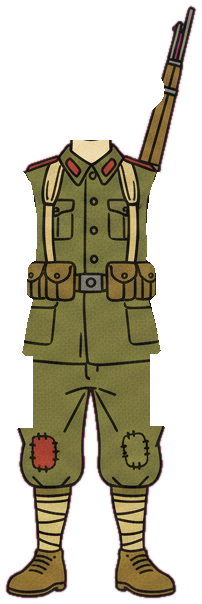
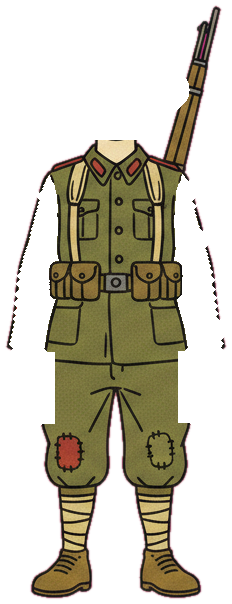
Day 02: sample assets (poses, rigs, sets, props), engine and s01-s08 scenes
Rejected generations are kept as x_ objects on their sheets or replaced by rewritten prompts:
an aimed-looking rifle pose, a mixed press/search lineup, an American-style uniform, a malformed bolt.

Claude-Session: https://claude.ai/code/session_01FrcE5zDMM6xwjKtkwWgTN9

diff --git a/day02/build/scenes.py b/day02/build/scenes.py
@@ -12,6 +12,11 @@ from engine import *  # noqa: F401,F403
 
 BUILD = json.load(open(os.path.join(DAY, "build.json")))
 CJK = "/usr/share/fonts/truetype/wqy/wqy-zenhei.ttc"
+PREVIEW = os.environ.get("PREVIEW") == "1"  # stills only; render.py refuses a video in preview mode
+
+
+def smooth_np(x):
+    return x * x * x * (x * (6 * x - 15) + 10)
 
 
 class Assets:
@@ -23,19 +28,34 @@ class Assets:
             self.cache[key] = fn()
         return self.cache[key]
 
-    def plate(self, sid):
-        return self._get(("set", sid), lambda: to_skia(load_rgba(os.path.join(DAY, "images", "raw", f"set_{sid}.png"),
-                                                                    (W + 48, H + 28))))
+    def plate(self, sid, feather=0):
+        def mk():
+            import numpy as np
+            a = load_rgba(os.path.join(DAY, "images", "raw", f"set_{sid}.png"), (W + 48, H + 28)).copy()
+            if feather:  # a place nested in another plate melts into it at the edges
+                h, w = a.shape[:2]
+                yy, xx = np.mgrid[0:h, 0:w]
+                d = np.minimum.reduce([xx, w - 1 - xx, yy, h - 1 - yy]).astype(float)
+                a[..., 3] = (smooth_np(np.clip(d / feather, 0, 1)) * 255).astype(np.uint8)
+            return to_skia(a)
+        return self._get(("set", sid, feather), mk)
 
     def prop(self, pid):
         if pid not in BUILD["props"]:
             raise SystemExit(f"STOP: prop {pid} is not declared in build.json")  # spec 9
-        return self._get(("prop", pid), lambda: to_skia(load_rgba(os.path.join(DAY, "images", "props", f"{pid}.png"))))
+        path = os.path.join(DAY, "images", "props", f"{pid}.png")
+        if PREVIEW and not os.path.exists(path):  # stills only: a grey stand-in so layouts can be checked
+            import numpy as np
+            return self._get(("prop", pid), lambda: to_skia(np.full((200, 300, 4), 120, np.uint8)))
+        return self._get(("prop", pid), lambda: to_skia(load_rgba(path)))
 
     def rig(self, cid, pose):
         if pose not in BUILD["cast"][cid]["poses"]:
             raise SystemExit(f"STOP: pose {cid}/{pose} is not declared in build.json")  # spec 9
-        return self._get(("rig", cid, pose), lambda: Rig(os.path.join(DAY, "images", "cast", f"{cid}_{pose}")))
+        folder = os.path.join(DAY, "images", "cast", f"{cid}_{pose}")
+        if PREVIEW and not os.path.exists(folder):
+            folder = os.path.join(DAY, "images", "cast", "onoda_attention")
+        return self._get(("rig", cid, pose), lambda: Rig(folder))
 
     def photo(self, pid):
         meta = BUILD["photos"][pid]
@@ -55,7 +75,7 @@ def build(tl, A):
     def S(name, x, y, s=1.0, plate_id=None, reveal=None):
         stn = Station(name, x, y, s, reveal)
         if plate_id:
-            stn.add(-999, plate(A.plate(plate_id)))
+            stn.add(-999, plate(A.plate(plate_id, 90 if reveal else 0)))
         stations.append(stn)
         return stn
 
@@ -71,7 +91,7 @@ def build(tl, A):
     t = 0.0
     ISL.add(0.25, tag("9 MAR 1974", 330, 150, 46, rot=-4, pin=True), until=at("s01", "walked into") + 0.4)
     # the route from Japan (off the top right) to the island, with a small plane along it
-    route = curve((1880, 60), (900, 500), -0.18)
+    route = curve((1880, 60), (900, 330), -0.12)
     ISL.add(at("s01", "flew from Japan") - 0.3, ink(route, RUST, 7, 1.6, dash=(18, 14)), until=at("s01", "walked into") + 0.3)
     ISL.add(at("s01", "flew from Japan") - 0.35, tag("JAPAN", 1700, 120, 34, bg=MUSTARD), until=at("s01", "walked into") + 0.3)
 
@@ -88,40 +108,40 @@ def build(tl, A):
         c.drawPath(poly([(-4, 0), (-16, -24), (-8, -24), (12, 0), (-8, 24), (-16, 24)], True), fill(INK))
         c.restore()
     ISL.add(at("s01", "flew from Japan") - 0.3, plane)
-    ISL.add(at("s01", "to a small island"), tag("LUBANG", 880, 360, 40, rot=3, pin=True), until=at("s01", "walked into") + 0.4)
+    ISL.add(at("s01", "to a small island"), tag("LUBANG", 760, 300, 40, rot=3, pin=True), until=at("s01", "walked into") + 0.4)
     p01 = A.photo("p01")
-    ISL.add(at("s01", "in the Philippines") - 0.2, photo_card(p01, 1480, 640, 620, "slide_up", hold=4),
+    ISL.add(at("s01", "in the Philippines") - 0.2, photo_card(p01, 1490, 740, 580, "slide_up", hold=4),
             until=at("s01", "walked into") + 0.1, fade=0.3)
-    ISL.add(at("s01", "in the Philippines") + 0.3, tag("THE PHILIPPINES", 1480, 300, 32, bg=CREAM, rot=-2),
+    ISL.add(at("s01", "in the Philippines") + 0.3, tag("THE PHILIPPINES", 1490, 470, 32, bg=CREAM, rot=-2),
             until=at("s01", "walked into") + 0.1)
     cam.key(0.0, frame_on(ISL, W / 2, H / 2, 1.0))
     cam.key(at("s01", "walked into") - 0.4, frame_on(ISL, W / 2 + 40, H / 2 + 10, 1.04), "hold")
     # dive into the island: arrive in the clearing just before "read a short statement"
-    cam.key(at("s01", "and read") - 0.1, frame_on(CLR, W / 2, H / 2, 1.0))
+    cam.key(at("s01", "and read") - 0.1, frame_on(CLR, W / 2, H / 2, 1.15))
 
     # the clearing: Taniguchi walks in with a paper, Onoda stands at attention
     tan_r = A.rig("taniguchi", "read_order")
     ono_att = A.rig("onoda", "attention")
     t_walk = at("s01", "walked into") - 0.2
     CLR.add(t_walk, actor(tan_r, 640, 930, 640, motion=walk(-700, 0, 0.0, 2.4)), until=nx("s02"), fade=0.0)
-    CLR.add(-999, actor(ono_att, 1380, 940, 610, flip=True, seed=1.3), until=None)
+    CLR.add(-999, actor(ono_att, 1380, 940, 610, flip=True, seed=1.3), until=st("s04") + 0.6, fade=0.0)
     CLR.add(at("s01", "and read") + 0.3, tag("A BOOKSELLER, 61", 560, 210, 40, rot=-3, pin=True), until=st("s02") + 0.2)
     CLR.add(at("s01", "a man standing"), tag("A PATCHED UNIFORM", 1390, 200, 40, bg=MUSTARD, rot=3, pin=True),
             until=st("s02") + 0.2)
     CLR.add(at("s01", "in a patched") + 0.2, arrow((1390, 250), (1330, 520), 0.25, RUST, 7, 0.5), until=st("s02") + 0.2)
 
     # ============================================================ s02: the statement
-    cam.key(st("s02") + 0.1, frame_on(CLR, W / 2 + 40, H / 2 + 10, 1.06), "hold")
-    cam.key(st("s02") + 1.2, frame_on(CLR, 780, 520, 1.45))
+    cam.key(st("s02") + 0.1, frame_on(CLR, W / 2 + 30, H / 2 + 8, 1.19), "hold")
+    cam.key(st("s02") + 1.2, frame_on(CLR, 780, 505, 1.45))
     # Taniguchi's head nods as he reads
-    CLR.add(st("s02"), panel((990, 170, 450, 640), CREAM, 0.97), until=nx("s02") - 0.1)
-    CLR.add(st("s02") + 0.2, sprite(A.prop("order"), 1080, 255, 120, entry="pop", rot=-6), until=nx("s02") - 0.1)
-    CLR.add(st("s02") + 0.5, headline("BY ORDER", 1290, 275, 48, RUST, f=title_font(50)), until=nx("s02") - 0.1)
+    CLR.add(st("s02"), panel((990, 190, 450, 590), CREAM, 0.97), until=nx("s02") - 0.1)
+    CLR.add(st("s02") + 0.2, sprite(A.prop("order"), 1075, 290, 100, entry="pop", rot=-6), until=nx("s02") - 0.1)
+    CLR.add(st("s02") + 0.5, headline("BY ORDER", 1280, 300, 48, RUST, f=title_font(50)), until=nx("s02") - 0.1)
     items = [("14TH AREA ARMY", "DISSOLVED", at("s02", "Japanese Fourteenth")),
              ("ALL COMBAT", "CEASE", at("s02", "That all combat")),
              ("HE IS", "RELIEVED OF DUTY", at("s02", "That the man"))]
     for i, (a, b, ti) in enumerate(items):
-        y = 400 + i * 135
+        y = 410 + i * 125
         CLR.add(ti, typewriter(a, 1025, y, 30, INK, 30), until=nx("s02") - 0.1)
         CLR.add(ti + 0.6, headline(b, 1025, y + 48, 38, RUST, "left", rise=12), until=nx("s02") - 0.1)
         CLR.add(ti + 0.9, check(1395, y + 6, 1.0, INK), until=nx("s02") - 0.1)
@@ -129,12 +149,12 @@ def build(tl, A):
             until=nx("s02") - 0.1)
 
     # ============================================================ s03: the man listening
-    cam.key(st("s03") - 0.2, frame_on(CLR, 1180, 540, 1.55))
-    cam.key(nx("s03") - 0.2, frame_on(CLR, 1180, 540, 1.58), "hold")
+    cam.key(st("s03") - 0.2, frame_on(CLR, 1150, 545, 1.3))
+    cam.key(nx("s03") - 0.2, frame_on(CLR, 1150, 545, 1.33), "hold")
     p02 = A.photo("p02")
-    CLR.add(at("s03", "Second Lieutenant") - 0.3, photo_card(p02, 790, 450, 340, "pin", tilt=-2.5, hold=14),
+    CLR.add(at("s03", "Second Lieutenant") - 0.3, photo_card(p02, 760, 470, 340, "pin", tilt=-2.5, hold=14, view=1.33),
             until=nx("s03") - 0.2)
-    CLR.add(at("s03", "Hiroo Onoda") + 0.2, tag("2ND LT HIROO ONODA", 790, 200, 32, rot=-2, pin=True), until=nx("s03") - 0.2)
+    CLR.add(at("s03", "Hiroo Onoda") + 0.2, tag("2ND LT HIROO ONODA", 760, 260, 32, rot=-2, pin=True), until=nx("s03") - 0.2)
     CLR.add(at("s03", "He was fifty-one"), panel((1560, 250, 220, 180), INK, 0.92), until=nx("s03") - 0.2)
     CLR.add(at("s03", "He was fifty-one") + 0.1, counter(0, 51, 1670, 395, 110, 1.0, rgb=MUSTARD), until=nx("s03") - 0.2)
     CLR.add(at("s03", "He was fifty-one") + 0.3, headline("AGE", 1670, 292, 30, CREAM, rise=8), until=nx("s03") - 0.2)
@@ -152,8 +172,8 @@ def build(tl, A):
     CLR.add(t_others + 0.4, headline("1945", yr(1945), y - 24, 22, OLIVE, "left", rise=6), until=nx("s03") - 0.2)
 
     # ============================================================ s04: all of it dismissed
-    cam.key(st("s04") + 0.2, frame_on(DEEP, W / 2, H / 2, 1.0))
-    cam.key(at("s04", "He had dismissed") - 0.2, frame_on(DEEP, W / 2 - 60, H / 2 + 20, 1.05), "hold")
+    cam.key(st("s04") + 0.2, frame_on(DEEP, W / 2, H / 2, 1.15))
+    cam.key(at("s04", "He had dismissed") - 0.2, frame_on(DEEP, W / 2 - 40, H / 2 + 15, 1.2), "hold")
     cam.key(at("s04", "He had dismissed") + 0.6, frame_on(DEEP, 760, 420, 1.25))
     ono_cr = A.rig("onoda", "crouch_watch")
     DEEP.add(st("s04") - 0.5, actor(ono_cr, 1560, 1000, 520, flip=True, seed=0.4,
@@ -169,9 +189,9 @@ def build(tl, A):
         DEEP.add(ti, tag(s, 420, y, 38, bg=MUSTARD if i % 2 else CREAM, rot=(-2, 2, -1, 3)[i]), until=nx("s04") - 0.2)
         DEEP.add(at("s04", "He had dismissed") + 0.25 * i, cross(420, y, 30, RUST, 11), until=nx("s04") - 0.2)
     # leaflets flutter down; a loudspeaker on its pole; the search party on the ridge; the plane overhead
-    DEEP.add(lines[0][1] - 0.2, sprite(A.prop("leaflets"), 980, 380, 300, path=curve((900, -200), (980, 380), 0.3),
+    DEEP.add(lines[0][1] - 0.2, sprite(A.prop("leaflets"), 1180, 230, 250, path=curve((1050, -200), (1180, 230), 0.3),
                                        dur=1.2, wobble=3, seed=1), until=nx("s04") - 0.2)
-    DEEP.add(lines[1][1] - 0.2, sprite(A.prop("loudspeaker"), 820, 700, 230, entry="rise", wobble=1.0), until=nx("s04") - 0.2)
+    DEEP.add(lines[1][1] - 0.2, sprite(A.prop("loudspeaker"), 760, 780, 200, entry="rise", wobble=1.0), until=nx("s04") - 0.2)
 
     def waves(cx, cy, n=3, rgb=RUST, period=1.0):
         def d(c, age):
@@ -179,27 +199,27 @@ def build(tl, A):
                 p = ((age / period) + i / n) % 1.0
                 c.drawPath(arc_path(cx, cy, 30 + 90 * p, -40, 80), stroke(rgb, 6, 1 - p))
         return d
-    DEEP.add(lines[1][1] + 0.3, waves(900, 580), until=nx("s04") - 0.2)
+    DEEP.add(lines[1][1] + 0.3, waves(840, 690), until=nx("s04") - 0.2)
     crowd = A.rig("crowd", "search_party")
-    DEEP.add(lines[2][1] - 0.4, actor(crowd, 900, 560, 210, motion=walk(-600, 260, 0.0, 6.0, bob=4, swing=0)),
+    DEEP.add(lines[2][1] - 0.4, actor(crowd, 900, 560, 240, motion=walk(-280, 300, 0.0, 6.0, bob=4, swing=0)),
              until=nx("s04") - 0.2)
-    plane_path = curve((-300, 170), (2200, 120), 0.04)
+    plane_path = curve((-300, 75), (2200, 55), 0.02)
     DEEP.add(lines[3][1] - 0.6, sprite(A.prop("plane_speaker"), 0, 0, 340, path=plane_path, dur=5.0), until=nx("s04"))
-    DEEP.add(lines[3][1], waves(1100, 230, 3, MUSTARD, 0.8), until=nx("s04") - 0.2)
+    DEEP.add(lines[3][1], waves(1100, 150, 3, MUSTARD, 0.8), until=nx("s04") - 0.2)
 
     # ============================================================ s05 (calm): an order, in person
     cam.key(st("s05") + 0.3, frame_on(DEEP, 760, 470, 1.2))
     cam.key(nx("s05"), frame_on(DEEP, 760, 470, 1.24), "hold")
-    DEEP.add(st("s05"), panel((300, 190, 920, 560), CREAM, 0.97), until=nx("s05") + 0.2)
-    DEEP.add(st("s05") + 0.3, sprite(A.prop("order"), 520, 460, 300, entry="rise", wobble=1.2), until=nx("s05") + 0.2)
-    DEEP.add(at("s05", "An order"), headline("AN ORDER", 900, 380, 64, INK, "left", dur=0.8), until=nx("s05") + 0.2)
-    DEEP.add(at("s05", "from the officer"), headline("FROM THE OFFICER", 900, 470, 34, OLIVE, "left", dur=0.8),
+    DEEP.add(st("s05"), panel((250, 200, 1060, 560), CREAM, 0.97), until=nx("s05") + 0.2)
+    DEEP.add(st("s05") + 0.3, sprite(A.prop("order"), 470, 480, 270, entry="rise", wobble=1.2), until=nx("s05") + 0.2)
+    DEEP.add(at("s05", "An order"), headline("AN ORDER", 700, 390, 64, INK, "left", dur=0.8), until=nx("s05") + 0.2)
+    DEEP.add(at("s05", "from the officer"), headline("FROM THE OFFICER", 700, 470, 34, OLIVE, "left", dur=0.8),
              until=nx("s05") + 0.2)
-    DEEP.add(at("s05", "from the officer") + 0.4, headline("WHO GAVE THE FIRST", 900, 515, 34, OLIVE, "left", dur=0.8),
+    DEEP.add(at("s05", "from the officer") + 0.4, headline("WHO GAVE THE FIRST", 700, 515, 34, OLIVE, "left", dur=0.8),
              until=nx("s05") + 0.2)
-    DEEP.add(at("s05", "delivered in person"), headline("IN PERSON", 900, 640, 64, RUST, "left", dur=0.8),
+    DEEP.add(at("s05", "delivered in person"), headline("IN PERSON", 700, 640, 64, RUST, "left", dur=0.8),
              until=nx("s05") + 0.2)
-    DEEP.add(at("s05", "delivered in person") + 0.5, underline(900, 1190, 665, RUST, 8, 0.6), until=nx("s05") + 0.2)
+    DEEP.add(at("s05", "delivered in person") + 0.5, underline(700, 1020, 665, RUST, 8, 0.6), until=nx("s05") + 0.2)
 
     # ============================================================ s06: that officer, a bookseller now
     cam.key(st("s06") + 0.35, frame_on(SHOP, W / 2, H / 2, 1.0))
@@ -211,7 +231,7 @@ def build(tl, A):
     SHOP.add(at("s06", "That officer") + 0.1, tag("THAT OFFICER", 520, 200, 40, rot=-3, pin=True), until=nx("s06"))
     SHOP.add(at("s06", "was a bookseller") + 0.1, tag("NOW A BOOKSELLER", 600, 300, 40, bg=MUSTARD, rot=2), until=nx("s06"))
     SHOP.add(at("s06", "found in a shop"), tag("A SHOP IN JAPAN", 560, 400, 34, bg=CREAM, rot=-1), until=nx("s06"))
-    SHOP.add(at("s06", "asked to put") - 0.4, sprite(A.prop("uniform"), 1400, 640, 520, entry="slide_r", dur=0.7),
+    SHOP.add(at("s06", "asked to put") - 0.4, sprite(A.prop("uniform"), 1400, 650, 400, entry="slide_r", dur=0.7),
              until=nx("s06"))
     SHOP.add(at("s06", "the uniform back on") - 0.2, tag("PUT THE UNIFORM BACK ON", 1400, 300, 38, bg=CREAM, rot=-2,
                                                          pin=True), until=nx("s06"))
@@ -225,11 +245,11 @@ def build(tl, A):
     ho = A.rig("onoda", "hand_over")
     CLR.add(t7 - 0.001, actor(ho, 1180, 940, 600, seed=2.0))
     p03 = A.photo("p03")
-    CLR.add(t7 + 0.2, photo_card(p03, 560, 700, 440, "drop", tilt=-2, hold=4))
+    CLR.add(t7 + 0.2, photo_card(p03, 700, 700, 440, "drop", tilt=-2, hold=4))
     # the bolt slides out of the rifle as he speaks the line, then holds
-    CLR.add(at("s07", "took the bolt") - 0.1, sprite(A.prop("bolt"), 1460, 640, 230,
-                                                     path=curve((1300, 640), (1500, 600), -0.2), dur=1.3))
-    CLR.add(at("s07", "took the bolt") + 1.0, ring_glow(1500, 600, 90))
+    CLR.add(at("s07", "took the bolt") - 0.1, sprite(A.prop("bolt"), 1430, 600, 220,
+                                                     path=curve((1300, 600), (1430, 600), -0.05), dur=1.3))
+    CLR.add(at("s07", "took the bolt") + 1.0, ring_glow(1430, 600, 140))
     # title_overlay: built during the beat's trailing pause (spec 5 and the beat note), then held still
     title = BUILD["beats"][6]["title_overlay"]
     overlays.append((en("s07"), nx("s07") + 0.45, title_card(title, fade_at=nx("s07") - en("s07"))))
@@ -245,20 +265,24 @@ def build(tl, A):
     VIL.add(t8 + 0.8, actor(young, 260, 960, 560, motion=walk(-500, 340, 0.0, 5.0)))
     VIL.add(at("s08", "born in March") , tag("BORN MAR 1922", 470, 170, 44, rot=-3, pin=True))
     VIL.add(at("s08", "Wakayama"), tag("WAKAYAMA", 450, 270, 36, bg=MUSTARD, rot=2))
-    VIL.add(at("s08", "Before the war"), panel((1180, 120, 680, 330), CREAM, 0.95))
-    VIL.add(at("s08", "trading company") - 0.1, headline("TRADING COMPANY", 1520, 200, 40, INK))
-    VIL.add(at("s08", "in China") - 0.1, headline("JAPAN  →  CHINA", 1520, 250, 30, OLIVE, f=semi_font(30)))
-    VIL.add(at("s08", "selling lacquerware") - 0.2, sprite(A.prop("lacquerware"), 1520, 360, 230, entry="pop"))
-    VIL.add(at("s08", "selling lacquerware") + 0.4, headline("LACQUERWARE", 1720, 430, 26, RUST, f=semi_font(26)))
+    t_card = at("s08", "an ordinary young man") - 0.3
+    VIL.add(at("s08", "Before the war"), panel((1180, 120, 680, 330), CREAM, 0.95), until=t_card)
+    VIL.add(at("s08", "trading company") - 0.1, headline("TRADING COMPANY", 1520, 200, 40, INK), until=t_card)
+    VIL.add(at("s08", "in China") - 0.1, headline("JAPAN  TO  CHINA", 1520, 250, 30, OLIVE, f=semi_font(30)),
+            until=t_card)
+    VIL.add(at("s08", "selling lacquerware") - 0.2, sprite(A.prop("lacquerware"), 1520, 360, 230, entry="pop"),
+            until=t_card)
+    VIL.add(at("s08", "selling lacquerware") + 0.4, headline("LACQUERWARE", 1720, 430, 26, RUST, f=semi_font(26)),
+            until=t_card)
     for i in range(3):
-        VIL.add(at("s08", "He was good at it") + 0.18 * i, check(1250 + 60 * i, 400, 0.9, RUST))
+        VIL.add(at("s08", "He was good at it") + 0.18 * i, check(1250 + 60 * i, 400, 0.9, RUST), until=t_card)
     # languages: three greetings in speech bubbles (set by the animation layer)
     for i, (s_, fnt) in enumerate((("Hello", None), ("你好", CJK), ("こんにちは", CJK))):
         VIL.add(at("s08", "a gift for languages") + 0.25 * i, bubble(s_, 560 + i * 200, 420 - (i % 2) * 60, fnt))
     p04 = A.photo("p04")
-    VIL.add(at("s08", "an ordinary young man") - 0.3, photo_card(p04, 1450, 650, 420, "slide_left", tilt=2, hold=8))
+    VIL.add(t_card, photo_card(p04, 1450, 650, 420, "slide_left", tilt=2, hold=8, view=1.22))
     VIL.add(at("s08", "drafted at twenty"), tag("DRAFTED AT 20", 980, 760, 40, bg=MUSTARD, rot=-3, pin=True))
-    VIL.add(at("s08", "unremarkable") - 0.1, stamp("UNREMARKABLE", 1000, 560, 64))
+    VIL.add(at("s08", "unremarkable") - 0.1, stamp("UNREMARKABLE", 860, 600, 56))
 
     return stations, cam, overlays
 

diff --git a/day02/build/cutout.py b/day02/build/cutout.py
@@ -96,7 +96,7 @@ def head_box(path, shape):
             int((b[2] / 1000 + pad * 0.3) * h), int((b[3] / 1000 + pad) * w))
 
 
-def split_pose(path, arms):
+def split_pose(path, arms, whole=False):
     """Body, head and (optionally) arms of one keyed pose. Returns {name: (rgba, (x, y))} and pivots."""
     rgba = key(path)
     lab, ids = components(rgba, 1500)
@@ -105,6 +105,10 @@ def split_pose(path, arms):
     top, bot = ys.min(), ys.max()
     hgt = bot - top
     parts, piv = {}, {"feet": [float(np.median(xs[ys > bot - 6])), float(bot)], "top": float(top)}
+    if whole:  # a group of extras moves as one cut-out
+        parts["body"] = crop(rgba, fig)
+        piv["neck"] = [float(np.median(xs)), float(top)]
+        return parts, piv, (rgba.shape[1], rgba.shape[0]), False
     # the head: a box from Gemini (cached next to the pose), then the figure inside it minus thin
     # things passing through (rifle barrels, straps), which stay on the body
     y0, x0, y1, x1 = head_box(path, fig.shape)
@@ -132,7 +136,15 @@ def split_pose(path, arms):
             print(f"  {os.path.basename(path)}: matte does not line up (IoU {iou:.3f}); arms stay on the body")
             arms = False
         else:
-            for side, sel in (("armL", (mg > 180) & (mr < 110) & (mb < 110)), ("armR", (mb > 180) & (mr < 110) & (mg < 110))):
+            gm = (mg > 180) & (mr < 110) & (mb < 110) & fig
+            bm = (mb > 180) & (mr < 110) & (mg < 110) & fig
+            # the two arm colours must sit on opposite sides of the figure, or the matte is not trusted
+            if not gm.any() or not bm.any() or abs(np.nonzero(gm)[1].mean() - np.nonzero(bm)[1].mean()) < 40:
+                print(f"  {os.path.basename(path)}: matte arms not on opposite sides; arms stay on the body")
+                arms = False
+            elif np.nonzero(gm)[1].mean() > np.nonzero(bm)[1].mean():
+                gm, bm = bm, gm  # the matte swapped its colours: armL is always the screen-left arm
+            for side, sel in ((("armL", gm), ("armR", bm)) if arms else ()):
                 sl, sn = ndi.label(sel & fig)
                 if not sn:
                     arms = False
@@ -172,7 +184,8 @@ def do_poses(only=()):
                 cid_pose = pid
         if not cid_pose or (only and cid_pose not in only):
             continue
-        parts, piv, size, has_arms = split_pose(path, assets.POSES[cid_pose][1])
+        whole = cid_pose.split("/")[0] in ("crowd", "comrades")
+        parts, piv, size, has_arms = split_pose(path, assets.POSES[cid_pose][1], whole)
         out = os.path.join(DAY, "images", "cast", cid_pose.replace("/", "_"))
         os.makedirs(out, exist_ok=True)
         rig = {"size": size, "pivots": piv, "parts": {}, "arms": has_arms}
@@ -201,7 +214,7 @@ def do_props(only=()):
         spans.sort()
         groups = []
         for s in spans:
-            if groups and s[0] <= groups[-1][1] + 30:
+            if groups and s[0] <= groups[-1][1] + 8:
                 groups[-1][1] = max(groups[-1][1], s[1])
                 groups[-1][2] += s[2]
             else:
@@ -210,6 +223,8 @@ def do_props(only=()):
         if len(groups) != len(sheet):
             sys.exit(f"STOP {os.path.basename(path)}: found {len(groups)} objects, expected {len(sheet)}")
         for name, g in zip(sheet, groups):
+            if name.startswith("x_"):
+                continue
             img, _ = crop(rgba, np.isin(lab, g[2]))
             Image.fromarray(img).save(os.path.join(out, f"{name}.png"))
             print(f"prop {name}: {img.shape[1]}x{img.shape[0]}")

diff --git a/day02/build/assets.py b/day02/build/assets.py
@@ -90,7 +90,8 @@ POSES = {
         "of the second reference sheet. Three-quarter view facing right, standing upright and reading aloud from "
         "a single sheet of blank paper held open in both hands at chest height."),
     "taniguchi/bookseller": (["taniguchi_bookseller"], True, "The same bookseller as the reference sheet, "
-        "three-quarter view facing left, standing calmly with a small stack of plain books under one arm. " + GAP),
+        "three-quarter view facing left, standing calmly, holding nothing, both sleeves the same mustard colour "
+        "as the cardigan. " + GAP),
     "crowd/search_party": (["crowd"], False, "Three searchers dressed exactly like the two men on the far left of "
         "the reference sheet: matching khaki 1950s field shirts and trousers, khaki bush hats, boots. They walk in "
         "single file towards the right, side view, close together as one group. The leader holds a megaphone; the "
@@ -111,10 +112,18 @@ PLATE = ("Full-bleed background plate for an animation, edge to edge with no bor
 PROPSHEET = ("A prop sheet of exactly {n} separate isolated objects in a single row with very wide magenta gaps "
              "between them, each object whole and not touching any other, plain flat solid magenta #FF00FF "
              "background, no ground shadows, nothing else in the image. From left to right: ")
-PROP_SHEETS = [  # sample props first
-    ["order", "flag_folded", "bolt"],
+PROP_DETAIL = {
+    "uniform": "an old 1940s Japanese army officer's uniform laid out flat and neatly folded: an olive tunic with a "
+               "high standing collar and brass buttons, and on top of it a peaked officer's cap with a red band",  # extra description where the build file's short prompt was not enough on its own
+    "bolt": "a single 1940s bolt-action rifle bolt drawn out of the rifle, lying horizontally: a steel cylinder "
+            "with a short bent handle ending in a round knob, seen from the side",
+}
+PROP_SHEETS = [  # sample props first; a name starting with "x_" marks a rejected object on that sheet
+    ["order", "flag_folded", "x_bolt"],
+    ["bolt"],
     ["leaflets", "loudspeaker", "plane_speaker"],
-    ["uniform", "rifle", "lacquerware"],
+    ["x_uniform", "rifle", "lacquerware"],
+    ["uniform"],
 ]
 
 
@@ -162,8 +171,11 @@ def main():
         for sheet in PROP_SHEETS:
             if only and not (only & set(sheet)):
                 continue
-            desc = "; ".join(f"{i + 1}) {props[p]}" for i, p in enumerate(sheet))
-            gen(vx, PROPSHEET.format(n=len(sheet)) + desc + ".", os.path.join(RAW, "props_" + "+".join(sheet) + ".png"))
+            out = os.path.join(RAW, "props_" + "+".join(sheet) + ".png")
+            if os.path.exists(out):
+                continue
+            desc = "; ".join(f"{i + 1}) {PROP_DETAIL.get(p, props[p])}" for i, p in enumerate(sheet))
+            gen(vx, PROPSHEET.format(n=len(sheet)) + desc + ".", out)
     else:
         sys.exit(f"unknown kind {kind}")
 

diff --git a/day02/build/engine.py b/day02/build/engine.py
@@ -597,13 +597,14 @@ class Photo:
         self.caption = meta.get("caption")
 
 
-def photo_card(ph, cx, cy, w, entry="slide_up", dur=0.7, tilt=0.0, scale_drift=0.03, hold=None):
+def photo_card(ph, cx, cy, w, entry="slide_up", dur=0.7, tilt=0.0, scale_drift=0.015, hold=None, view=1.0):
     """A photograph mounted as a card: thin matte from its own dark tones, soft shadow, caption on the matte
     at lower left. The image is fitted whole (never cropped), drawn untouched; graphics never sit over it.
-    Low-res photos are capped at 94% of native size so the camera's drift keeps them under native."""
+    Low-res photos are capped at 94% of native size on screen: `view` is the most the camera magnifies
+    this station's pixels while the card is up (zoom x station scale), so drift keeps them under native."""
     iw, ih = ph.native
     if ph.low_res:
-        w = min(w, iw * 0.94)
+        w = min(w, iw * 0.94 / view)
     h = w * ih / iw
     m = max(8, w * 0.018)
     cap_h = 46 if ph.caption else 0

diff --git a/day02/build/render.py b/day02/build/render.py
@@ -138,4 +138,6 @@ if __name__ == "__main__":
             Image.fromarray(a[..., [2, 1, 0]]).save(os.path.join(outdir, f"f_{t:07.2f}.png"))
             print("still", t)
     elif args[0] == "video":
+        if scenes.PREVIEW:
+            sys.exit("a video needs every real asset; PREVIEW=1 is for stills only")
         video(args[1], args[2], args[3])
